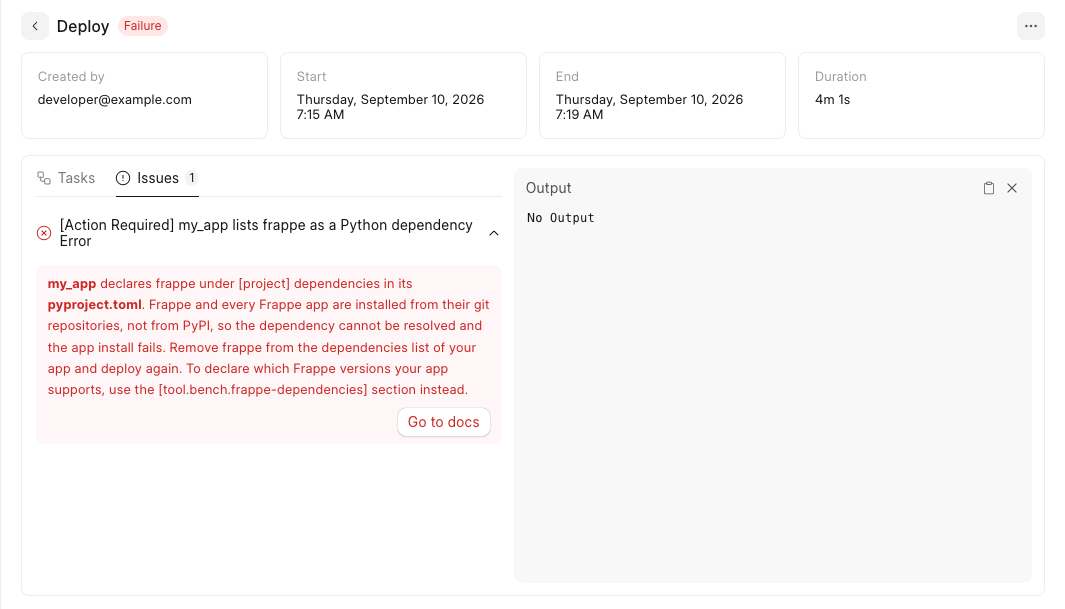
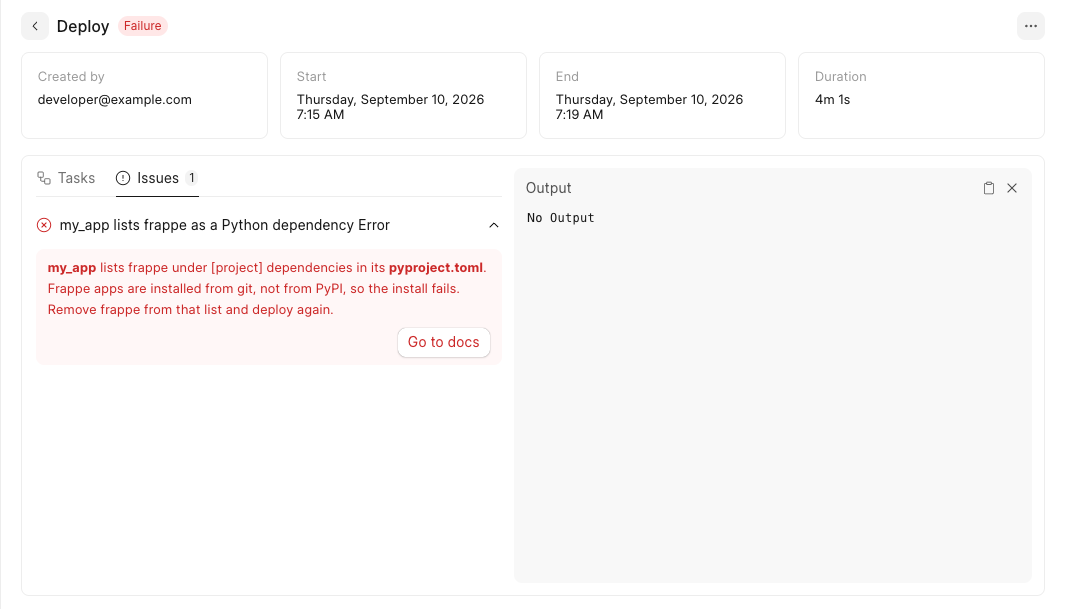
fix(deploy): Shorten the frappe dependency issue title and message
The title wrapped to two lines in the issues panel and the message ran to
six. Dropped the "[Action Required]" prefix and the paragraph on
[tool.bench.frappe-dependencies] — the linked doc covers it.

(cherry picked from commit ea8e2a07cc45839e9039b1dd4aba3aee07d648c5)

Changed region(s): [[0.031, 0.4368, 0.4648, 0.6552], [0.031, 0.3432, 0.4338, 0.4056], [0.3718, 0.6864, 0.4648, 0.7176]]

diff --git a/dashboard/tests-e2e/tests/dashboard/deploy-issue-frappe-dependency.test.ts b/dashboard/tests-e2e/tests/dashboard/deploy-issue-frappe-dependency.test.ts
@@ -90,14 +90,12 @@ const buildMock = {
 // for a uv resolution failure where the app lists frappe under [project] dependencies.
 const notificationMock = {
 	name: 'notif-0001',
-	title: '[Action Required] my_app lists frappe as a Python dependency',
+	title: 'my_app lists frappe as a Python dependency',
 	message:
-		'<p><b>my_app</b> declares <code>frappe</code> under <code>[project] dependencies</code>' +
-		' in its <b>pyproject.toml</b>. Frappe and every Frappe app are installed from their git' +
-		' repositories, not from PyPI, so the dependency cannot be resolved and the app install' +
-		' fails.</p> <p>Remove <code>frappe</code> from the dependencies list of your app and' +
-		' deploy again. To declare which Frappe versions your app supports, use the' +
-		' <code>[tool.bench.frappe-dependencies]</code> section instead.</p>',
+		'<p><b>my_app</b> lists <code>frappe</code> under <code>[project] dependencies</code>' +
+		' in its <b>pyproject.toml</b>. Frappe apps are installed from git, not from PyPI, so' +
+		' the install fails.</p> <p>Remove <code>frappe</code> from that list and deploy' +
+		' again.</p>',
 	document_name: BUILD_NAME,
 	class: 'Error',
 	assistance_url: DOC_URL,
@@ -171,9 +169,7 @@ test('names the app that lists frappe as a dependency on a failed build', async 
 		page.getByText('my_app lists frappe as a Python dependency'),
 	).toBeVisible()
 	await expect(
-		page.getByText(
-			'Remove frappe from the dependencies list of your app and deploy again',
-		),
+		page.getByText('Remove frappe from that list and deploy again'),
 	).toBeVisible()
 	await expect(page.getByRole('link', { name: 'Go to docs' })).toHaveAttribute(
 		'href',

diff --git a/press/press/doctype/deploy_candidate/deploy_notifications.py b/press/press/doctype/deploy_candidate/deploy_notifications.py
@@ -406,17 +406,14 @@ def update_with_frappe_listed_as_dependency(
 	if not (app_name := get_app_that_depends_on_frappe(dcb)):
 		return False
 
-	details["title"] = f"[Action Required] {app_name} lists frappe as a Python dependency"
+	details["title"] = f"{app_name} lists frappe as a Python dependency"
 
 	message = f"""
-	<p><b>{escape_html(app_name)}</b> declares <code>frappe</code> under
-	<code>[project] dependencies</code> in its <b>pyproject.toml</b>. Frappe and every Frappe
-	app are installed from their git repositories, not from PyPI, so the dependency cannot be
-	resolved and the app install fails.</p>
+	<p><b>{escape_html(app_name)}</b> lists <code>frappe</code> under
+	<code>[project] dependencies</code> in its <b>pyproject.toml</b>. Frappe apps are installed
+	from git, not from PyPI, so the install fails.</p>
 
-	<p>Remove <code>frappe</code> from the dependencies list of your app and deploy again. To
-	declare which Frappe versions your app supports, use the
-	<code>[tool.bench.frappe-dependencies]</code> section instead.</p>
+	<p>Remove <code>frappe</code> from that list and deploy again.</p>
 	"""
 
 	details["message"] = fmt(message)

diff --git a/press/press/doctype/deploy_candidate/test_deploy_notifications.py b/press/press/doctype/deploy_candidate/test_deploy_notifications.py
@@ -146,9 +146,9 @@ class TestFrappeListedAsDependency(FrappeTestCase):
 		details = self.get_details(UV_FRAPPE_DEPENDENCY_OUTPUT)
 
 		self.assertTrue(details["is_actionable"])
-		self.assertIn("my_app", details["title"])
-		self.assertIn("lists frappe as a Python dependency", details["title"])
+		self.assertEqual(details["title"], "my_app lists frappe as a Python dependency")
 		self.assertIn("pyproject.toml", details["message"])
+		self.assertIn("Remove <code>frappe</code> from that list", details["message"])
 		self.assertEqual(
 			details["assistance_url"],
 			DOC_URLS["frappe-listed-as-a-python-dependency"],
